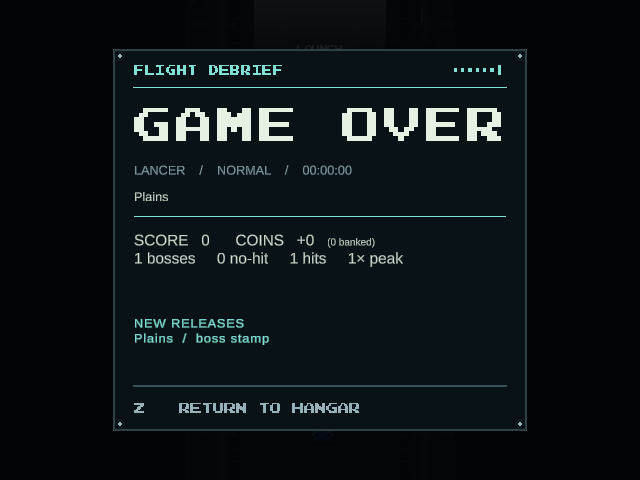
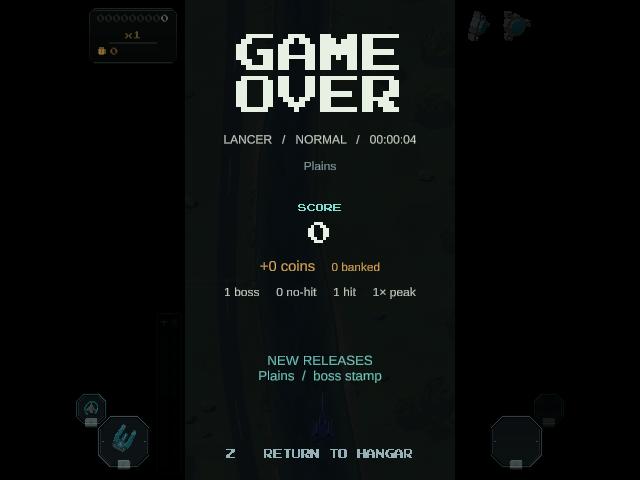
Show victory and game over inside the portrait playfield

diff --git a/Assets/Scripts/Run/GameOverState.cs b/Assets/Scripts/Run/GameOverState.cs
@@ -2,7 +2,7 @@ using UnityEngine;
 using UnityEngine.UI;
 using TMPro;
 
-// A short, unmistakable end to the run, followed by the existing title transition.
+// The final flight tally occupies the same portrait aperture as the district reveals.
 public sealed class GameOverState : MonoBehaviour
 {
     static GameOverState instance;
@@ -41,8 +41,8 @@ public sealed class GameOverState : MonoBehaviour
         instance.Build(dialog != null ? dialog.font : null);
     }
 
-    DockInstrument meter;
-    TextMeshProUGUI tally, stamps, footer;
+    RectTransform playfield;
+    TextMeshProUGUI score, coins, stamps, footer;
     FlightLog log;
     bool won;
     int sounded;
@@ -58,31 +58,62 @@ public sealed class GameOverState : MonoBehaviour
             difficulty = Difficulty.Current
         };
         var accent = won ? DockInstrument.Brass : DockInstrument.Sea;
-        meter = new DockInstrument(gameObject, font, accent, 32010);
-        group = meter.group;
-        meter.Label("FLIGHT DEBRIEF", -48, 255, 462, 32, 15, accent, true);
-        string title = won ? (log.contract == null ? "VICTORY" : "CERTIFIED") : "GAME OVER";
-        var headline = meter.Label(title, 0, 173, 558, 94, 74, won ? DockInstrument.Brass : DockInstrument.Paper, true);
-        lettering = headline.rectTransform;
+        var canvas = gameObject.AddComponent<Canvas>();
+        canvas.renderMode = RenderMode.ScreenSpaceOverlay;
+        canvas.sortingOrder = 32010;
+        var scaler = gameObject.AddComponent<CanvasScaler>();
+        scaler.uiScaleMode = CanvasScaler.ScaleMode.ScaleWithScreenSize;
+        scaler.referenceResolution = new Vector2(1280, 720);
+        scaler.matchWidthOrHeight = 1;
+        group = gameObject.AddComponent<CanvasGroup>();
+        group.blocksRaycasts = false;
+
+        playfield = DockInstrument.Block(transform, "Flight area", Vector2.zero,
+            new Vector2(405, 720), new Color(.013f, .025f, .035f, .86f));
+        playfield.gameObject.AddComponent<RectMask2D>();
+        var print = Resources.Load<TMP_FontAsset>("Fonts & Materials/LiberationSans SDF");
+        string title = won ? (log.contract == null ? "VICTORY" : "CERTIFIED") : "GAME\nOVER";
+        lettering = Label(title, won ? 220 : 247, won ? 82 : 145, won ? 44 : 63, font,
+            won ? accent : DockInstrument.Paper).rectTransform;
         if (won)
         {
-            headline.rectTransform.anchoredPosition = new Vector2(70, 173);
-            headline.rectTransform.sizeDelta = new Vector2(412, 88);
             wings = new GameObject("Pilot wings", typeof(RectTransform), typeof(Image)).GetComponent<Image>();
-            wings.transform.SetParent(meter.face, false);
+            wings.transform.SetParent(playfield, false);
             wings.sprite = Resources.Load<Sprite>("DockArt/Wings");
-            wings.rectTransform.sizeDelta = new Vector2(135, 68);
-            wings.rectTransform.anchoredPosition = new Vector2(-217, 173);
+            wings.rectTransform.sizeDelta = new Vector2(124, 62);
+            wings.rectTransform.anchoredPosition = new Vector2(0, 291);
+            wings.raycastTarget = false;
             ItemSound.Play("ready", .21f);
         }
-        meter.Label((log.contract ?? log.frame.ToString()).ToUpperInvariant() + "    /    " + log.difficulty.ToString().ToUpperInvariant()
-            + "    /    " + log.Duration, 0, 105, 558, 36, 19, DockInstrument.Muted);
-        meter.Label(log.route, 0, 65, 558, 48, 19, DockInstrument.Paper);
-        DockInstrument.Block(meter.face, "Tally rule", new Vector2(0, 35), new Vector2(558, 2), accent);
-        tally = meter.Label("", 0, -16, 558, 85, 23, DockInstrument.Paper);
-        stamps = meter.Label("", 0, -138, 558, 142, 19, accent, true);
-        footer = meter.Label("", 0, -252, 558, 36, 17, DockInstrument.Muted);
+        Label((log.contract ?? log.frame.ToString()).ToUpperInvariant() + "   /   " + log.difficulty.ToString().ToUpperInvariant()
+            + "   /   " + log.Duration, 151, 35, 18, print, DockInstrument.Paper);
+        Label(log.route, 111, 48, 18, print, DockInstrument.Muted);
+        Label("SCORE", 48, 22, 13, font, accent);
+        score = Label("", 9, 52, 34, font, DockInstrument.Paper);
+        coins = Label("", -39, 38, 22, print, DockInstrument.Brass);
+        Label(log.bosses + (log.bosses == 1 ? " boss" : " bosses") + "     " + log.clean + " no-hit     "
+            + log.hits + (log.hits == 1 ? " hit" : " hits") + "     " + log.peak + "× peak", -78, 32, 18, print, DockInstrument.Paper);
+        stamps = Label("", -192, 151, 20, print, accent);
+        footer = Label("", -321, 36, 14, font, DockInstrument.Muted);
         group.alpha = 0;
+    }
+
+    TextMeshProUGUI Label(string text, float y, float height, float size, TMP_FontAsset font, Color color)
+    {
+        var label = new GameObject("Result lettering", typeof(RectTransform), typeof(TextMeshProUGUI)).GetComponent<TextMeshProUGUI>();
+        label.transform.SetParent(playfield, false);
+        label.rectTransform.sizeDelta = new Vector2(365, height);
+        label.rectTransform.anchoredPosition = new Vector2(0, y);
+        if (font != null)
+            label.font = font;
+        label.fontSizeMax = size;
+        label.fontSizeMin = size * .65f;
+        label.enableAutoSizing = true;
+        label.alignment = TextAlignmentOptions.Center;
+        label.color = color;
+        label.raycastTarget = false;
+        label.text = text;
+        return label;
     }
 
     void Update()
@@ -97,8 +128,8 @@ public sealed class GameOverState : MonoBehaviour
             wings.color = new Color(1, 1, 1, strike);
         }
         float t = Mathf.SmoothStep(0, 1, (age - .35f) / 1.1f);
-        tally.text = "SCORE   " + Mathf.RoundToInt(log.score * t).ToString("N0") + "      COINS   +" + Mathf.RoundToInt(log.earned * t)
-            + "   <size=65%>(" + log.banked + " banked)</size>\n" + log.bosses + (log.bosses == 1 ? " boss     " : " bosses     ") + log.clean + " no-hit     " + log.hits + (log.hits == 1 ? " hit     " : " hits     ") + log.peak + "× peak";
+        score.text = Mathf.RoundToInt(log.score * t).ToString("N0");
+        coins.text = "+" + Mathf.RoundToInt(log.earned * t) + " coins    <size=80%>" + log.banked + " banked</size>";
         int count = Mathf.Clamp(Mathf.FloorToInt((age - 1.05f) * 3), 0, log.awards.Count);
         if (count > sounded)
         {

diff --git a/Assets/Editor/Checks/VerifyHangarDeck.cs b/Assets/Editor/Checks/VerifyHangarDeck.cs
@@ -43,6 +43,11 @@ public static class VerifyHangarDeck
         SessionState.SetBool("InspectDockLane", true);
         Run();
     }
+    public static void Endings()
+    {
+        SessionState.SetBool("InspectFlightEndings", true);
+        Run();
+    }
     public static void Polish()
     {
         SessionState.SetBool("InspectDockArt", true);
@@ -123,7 +128,7 @@ public sealed class HangarDeckReview : MonoBehaviour
             File.WriteAllText(VerifyHangarDeck.Folder + "/Result.txt", "PASS");
             yield break;
         }
-        if (SessionState.GetBool("InspectDockArt", false))
+        if (SessionState.GetBool("InspectDockArt", false) || SessionState.GetBool("InspectFlightEndings", false))
         {
             SessionState.SetBool("InspectDockArt", false);
             yield return CheckPresentation();
@@ -186,15 +191,20 @@ public sealed class HangarDeckReview : MonoBehaviour
     }
     IEnumerator CheckPresentation()
     {
-        yield return Capture("Concourse");
-        for (int i = 0; i < 5; i++)
+        bool endingsOnly = SessionState.GetBool("InspectFlightEndings", false);
+        SessionState.SetBool("InspectFlightEndings", false);
+        if (!endingsOnly)
         {
-            Call("OpenDock", i);
-            if (i != 1)
-                Call("Navigate", true, 1);
-            yield return Capture(new[] { "Fleet", "Armory", "Simulator", "Recorder", "Dispatch" }[i]);
-            Call("CloseDock");
-            yield return null;
+            yield return Capture("Concourse");
+            for (int i = 0; i < 5; i++)
+            {
+                Call("OpenDock", i);
+                if (i != 1)
+                    Call("Navigate", true, 1);
+                yield return Capture(new[] { "Fleet", "Armory", "Simulator", "Recorder", "Dispatch" }[i]);
+                Call("CloseDock");
+                yield return null;
+            }
         }
         // Exercise the regular departure and terminal routing callback with a post-boss fixture.
         hub.StartCoroutine((IEnumerator)typeof(HangarHub).GetMethod("Launch", BindingFlags.NonPublic | BindingFlags.Instance).Invoke(hub, null));
@@ -216,11 +226,16 @@ public sealed class HangarDeckReview : MonoBehaviour
         Check(MetaProgress.LastFlight.outcome == "Victory" && MetaProgress.CanFly(ShipFrame.Lancer), "Hell reward exit ends campaign and releases Lancer");
         while (GameOverState.Active || (hub = FindAnyObjectByType<HangarHub>()) == null || CloudTransition.Busy || HangarHub.HoldingShip)
             yield return null;
-        Call("OpenDock", 0);
-        yield return Capture("StampedHull");
-        Call("CloseDock");
+        if (!endingsOnly)
+        {
+            Call("OpenDock", 0);
+            yield return Capture("StampedHull");
+            Call("CloseDock");
+        }
         Call("Switch", ShipFrame.Lancer);
-        MetaProgress.BeginRun();
+        hub.StartCoroutine((IEnumerator)typeof(HangarHub).GetMethod("Launch", BindingFlags.NonPublic | BindingFlags.Instance).Invoke(hub, null));
+        while (FindAnyObjectByType<WaveOrchestrer>() == null || HangarHub.Launching || CloudTransition.Busy)
+            yield return null;
         MetaProgress.EngageBoss();
         MetaProgress.TookHit();
         MetaProgress.DefeatBoss();

diff --git a/AGENTS.md b/AGENTS.md
@@ -172,6 +172,7 @@ These are the player's instructions. Preserve them across sessions and apply the
 - Put the three randomized shop items on the central launch lane. The Fleet, Armory, Simulator and Recorder are side workstations. Select and confirm difficulty at the flight desk, then deliberately hold to launch.
 - GR07 is the only starting hull. Campaign Hell clears commission Lancer, Ember and Warden in sequence, each with its predecessor. Simulator loans and victories are separate from campaign ship progression. Keep boss and no-hit marks per hull and difficulty.
 - A Hell campaign clear now ends the run after its boss reward. Show the victory receipt, coins collected and banked, run stats and new unlocks, then return to the hangar. A loss also files a receipt and reveals its unlocks.
+- Show victory and game over directly over the vertical flight area. Fit the title, tally and unlocks within its edges and keep the side margins clear.
 
 ## Workflow
 
